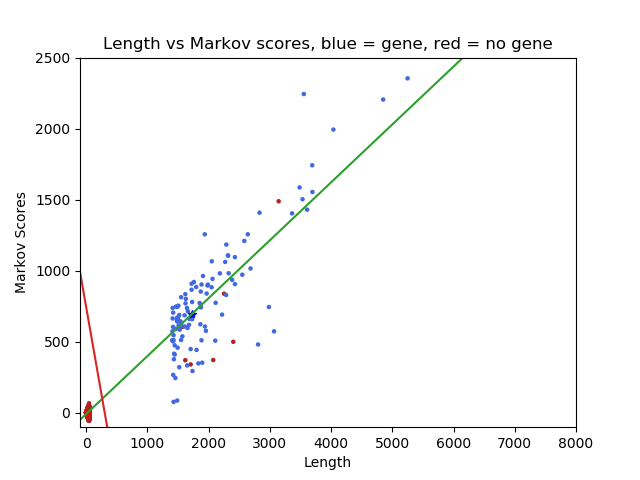
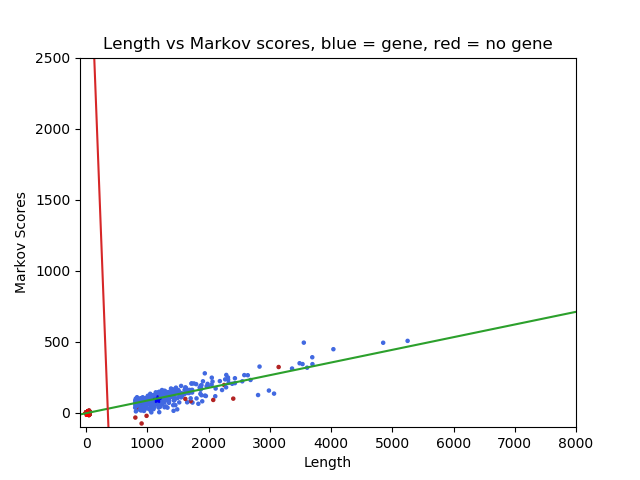
added hyperparameter tuning as extra

diff --git a/src/extra.py b/src/extra.py
@@ -1,0 +1,105 @@
+import argparse
+import numpy as np
+from statistics import median
+from sklearn.metrics import roc_curve
+from sklearn.metrics import roc_auc_score
+from sklearn.metrics import accuracy_score
+import matplotlib.pyplot as plt
+from MarkovModel import MarkovModel
+from ORF import ORF, read_fna
+import pandas as pd
+
+# input data
+data=read_fna("data/GCF_000091665.1_ASM9166v1_genomic.fna")
+seq = data[0].sequence
+
+# golden testset
+goldens = pd.read_csv("data/plusgenes-subset.gff", delimiter="\t", header=None)
+
+def check_match(end_idx):
+    stop_idx = end_idx + 3
+    matches = goldens.index[goldens[4] == stop_idx]
+    if len(matches) == 0:
+        return False
+    else:
+        return True
+
+def roc_len_score(fig, df_results, var_name, var):
+    fpr, tpr, _ = roc_curve(df_results["matches"], df_results["score"])
+    auc = roc_auc_score(df_results["matches"], df_results["score"])
+    plt.plot(fpr, tpr, label="{} = {}, auc = {}".format(var_name, var, auc))
+    
+    plt.xlabel("False Positive Rate")
+    plt.ylabel("True Positive Rate")
+    plt.title("ROC curves of Length and Markov Scores")
+    plt.legend()
+
+def zoomin(fig, xlow, xhigh, ylow, yhigh):
+    plt.xlim(xlow,xhigh)
+    plt.ylim(ylow,yhigh)
+
+
+# range of k to try
+ks = [3,4,5,6,7]
+
+fig = plt.figure()
+for k in ks:
+    mm = MarkovModel(k=k, seq=seq, pseudocount=1)
+    results = mm.results()
+    df_results = pd.DataFrame(results)
+    df_results["matches"] = df_results["end"].apply(lambda x: check_match(int(x)))
+    roc_len_score(fig, df_results, "k", k)
+
+plt.savefig("output/k_roc.png")
+zoomin(fig, -0.02, 0.15, 0.75, 1.03)
+plt.savefig("output/k_roc_zoomed.png")
+plt.close()
+
+
+# range of pseudo counts to try
+pseudos = [0.1,0.5,1,3,5]
+
+fig = plt.figure()
+for p in pseudos:
+    mm = MarkovModel(k=5, seq=seq, pseudocount=p)
+    results = mm.results()
+    df_results = pd.DataFrame(results)
+    df_results["matches"] = df_results["end"].apply(lambda x: check_match(int(x)))
+    roc_len_score(fig, df_results, "p", p)
+
+plt.savefig("output/p_roc.png")
+zoomin(fig, -0.02, 0.15, 0.75, 1.03)
+plt.savefig("output/p_roc_zoomed.png")
+plt.close()
+
+
+# range of long lengths
+longls = [800,1000,1200, 1400, 2000]
+fig = plt.figure()
+for longl in longls:
+    mm = MarkovModel(k=5, seq=seq, pseudocount=1, long_len=longl)
+    results = mm.results()
+    df_results = pd.DataFrame(results)
+    df_results["matches"] = df_results["end"].apply(lambda x: check_match(int(x)))
+    roc_len_score(fig, df_results, "long_len", longl)
+
+plt.savefig("output/longl_roc.png")
+zoomin(fig, -0.02, 0.15, 0.75, 1.03)
+plt.savefig("output/longl_roc_zoomed.png")
+plt.close()
+
+
+# range of short lengths
+shortls = [20,50,70,80,100]
+fig = plt.figure()
+for shortl in shortls:
+    mm = MarkovModel(k=5, seq=seq, pseudocount=1, short_len=shortl)
+    results = mm.results()
+    df_results = pd.DataFrame(results)
+    df_results["matches"] = df_results["end"].apply(lambda x: check_match(int(x)))
+    roc_len_score(fig, df_results, "short_len", shortl)
+
+plt.savefig("output/shortl_roc.png")
+zoomin(fig, -0.02, 0.15, 0.75, 1.03)
+plt.savefig("output/shortl_roc_zoomed.png")
+plt.close()

diff --git a/src/train_model.py b/src/train_model.py
@@ -12,8 +12,8 @@ import pandas as pd
 parser = argparse.ArgumentParser()
 parser.add_argument("-longl", type=int, action="store")
 parser.add_argument("-shortl", type=int, action="store")
-parser.add_argument("-k", type=float, action="store")
-parser.add_argument("-pseudo", type=int, action="store")
+parser.add_argument("-k", type=int, action="store")
+parser.add_argument("-pseudo", type=float, action="store")
 args = parser.parse_args()
 
 if args.longl:
@@ -116,9 +116,9 @@ def roc_len_score(fig, df_results, combined_results):
     plt.plot(fpr, tpr, "g-", label="score, auc = {}".format(auc))
     plt.plot(fpr[idx_score], tpr[idx_score], "go", label="threshold at {}".format(thresholds[idx_score]))
     plt.plot(fpr_len, tpr_len, "r-", label="length, auc = {}".format(auc_len))
-    plt.plot(fpr_len[idx_len], tpr_len[idx_len], "b*", label="threshold at {}".format(thresholds_len[idx_len]))
+    plt.plot(fpr_len[idx_len], tpr_len[idx_len], "r*", label="threshold at {}".format(thresholds_len[idx_len]))
     plt.plot(fpr_combined, tpr_combined, "b-", label="combined/flashbulb, auc = {}".format(auc_combined))
-    plt.plot(fpr_combined[idx_combined], tpr_combined[idx_combined], "r*", label="threshold at {}".format(thresholds_len[idx_combined]))
+    plt.plot(fpr_combined[idx_combined], tpr_combined[idx_combined], "b*", label="threshold at {}".format(thresholds_combined[idx_combined]))
     plt.xlabel("False Positive Rate")
     plt.ylabel("True Positive Rate")
     plt.title("ROC curves of Length and Markov Scores")
@@ -168,7 +168,7 @@ def flashbulb(fig, df_results,r):
 
 
 fig = plt.figure()
-m, y_intercept = flashbulb(fig, df_results, 0.2)
+m, y_intercept = flashbulb(fig, df_results, 0.3)
 plt.savefig("output/decision_bdy.png")
 plt.close()
 
@@ -191,3 +191,5 @@ plt.savefig("output/roc_curve_k{}_pseudo{}_longl{}_shortl{}.png".format(k, pseud
 zoomin(fig, -0.02, 0.15, 0.75, 1.03)
 plt.savefig("output/roc_curve_k{}_pseudo{}_longl{}_shortl{}_zoomed.png".format(k, pseudo, longl, shortl))
 plt.close()
+
+print(mm)
